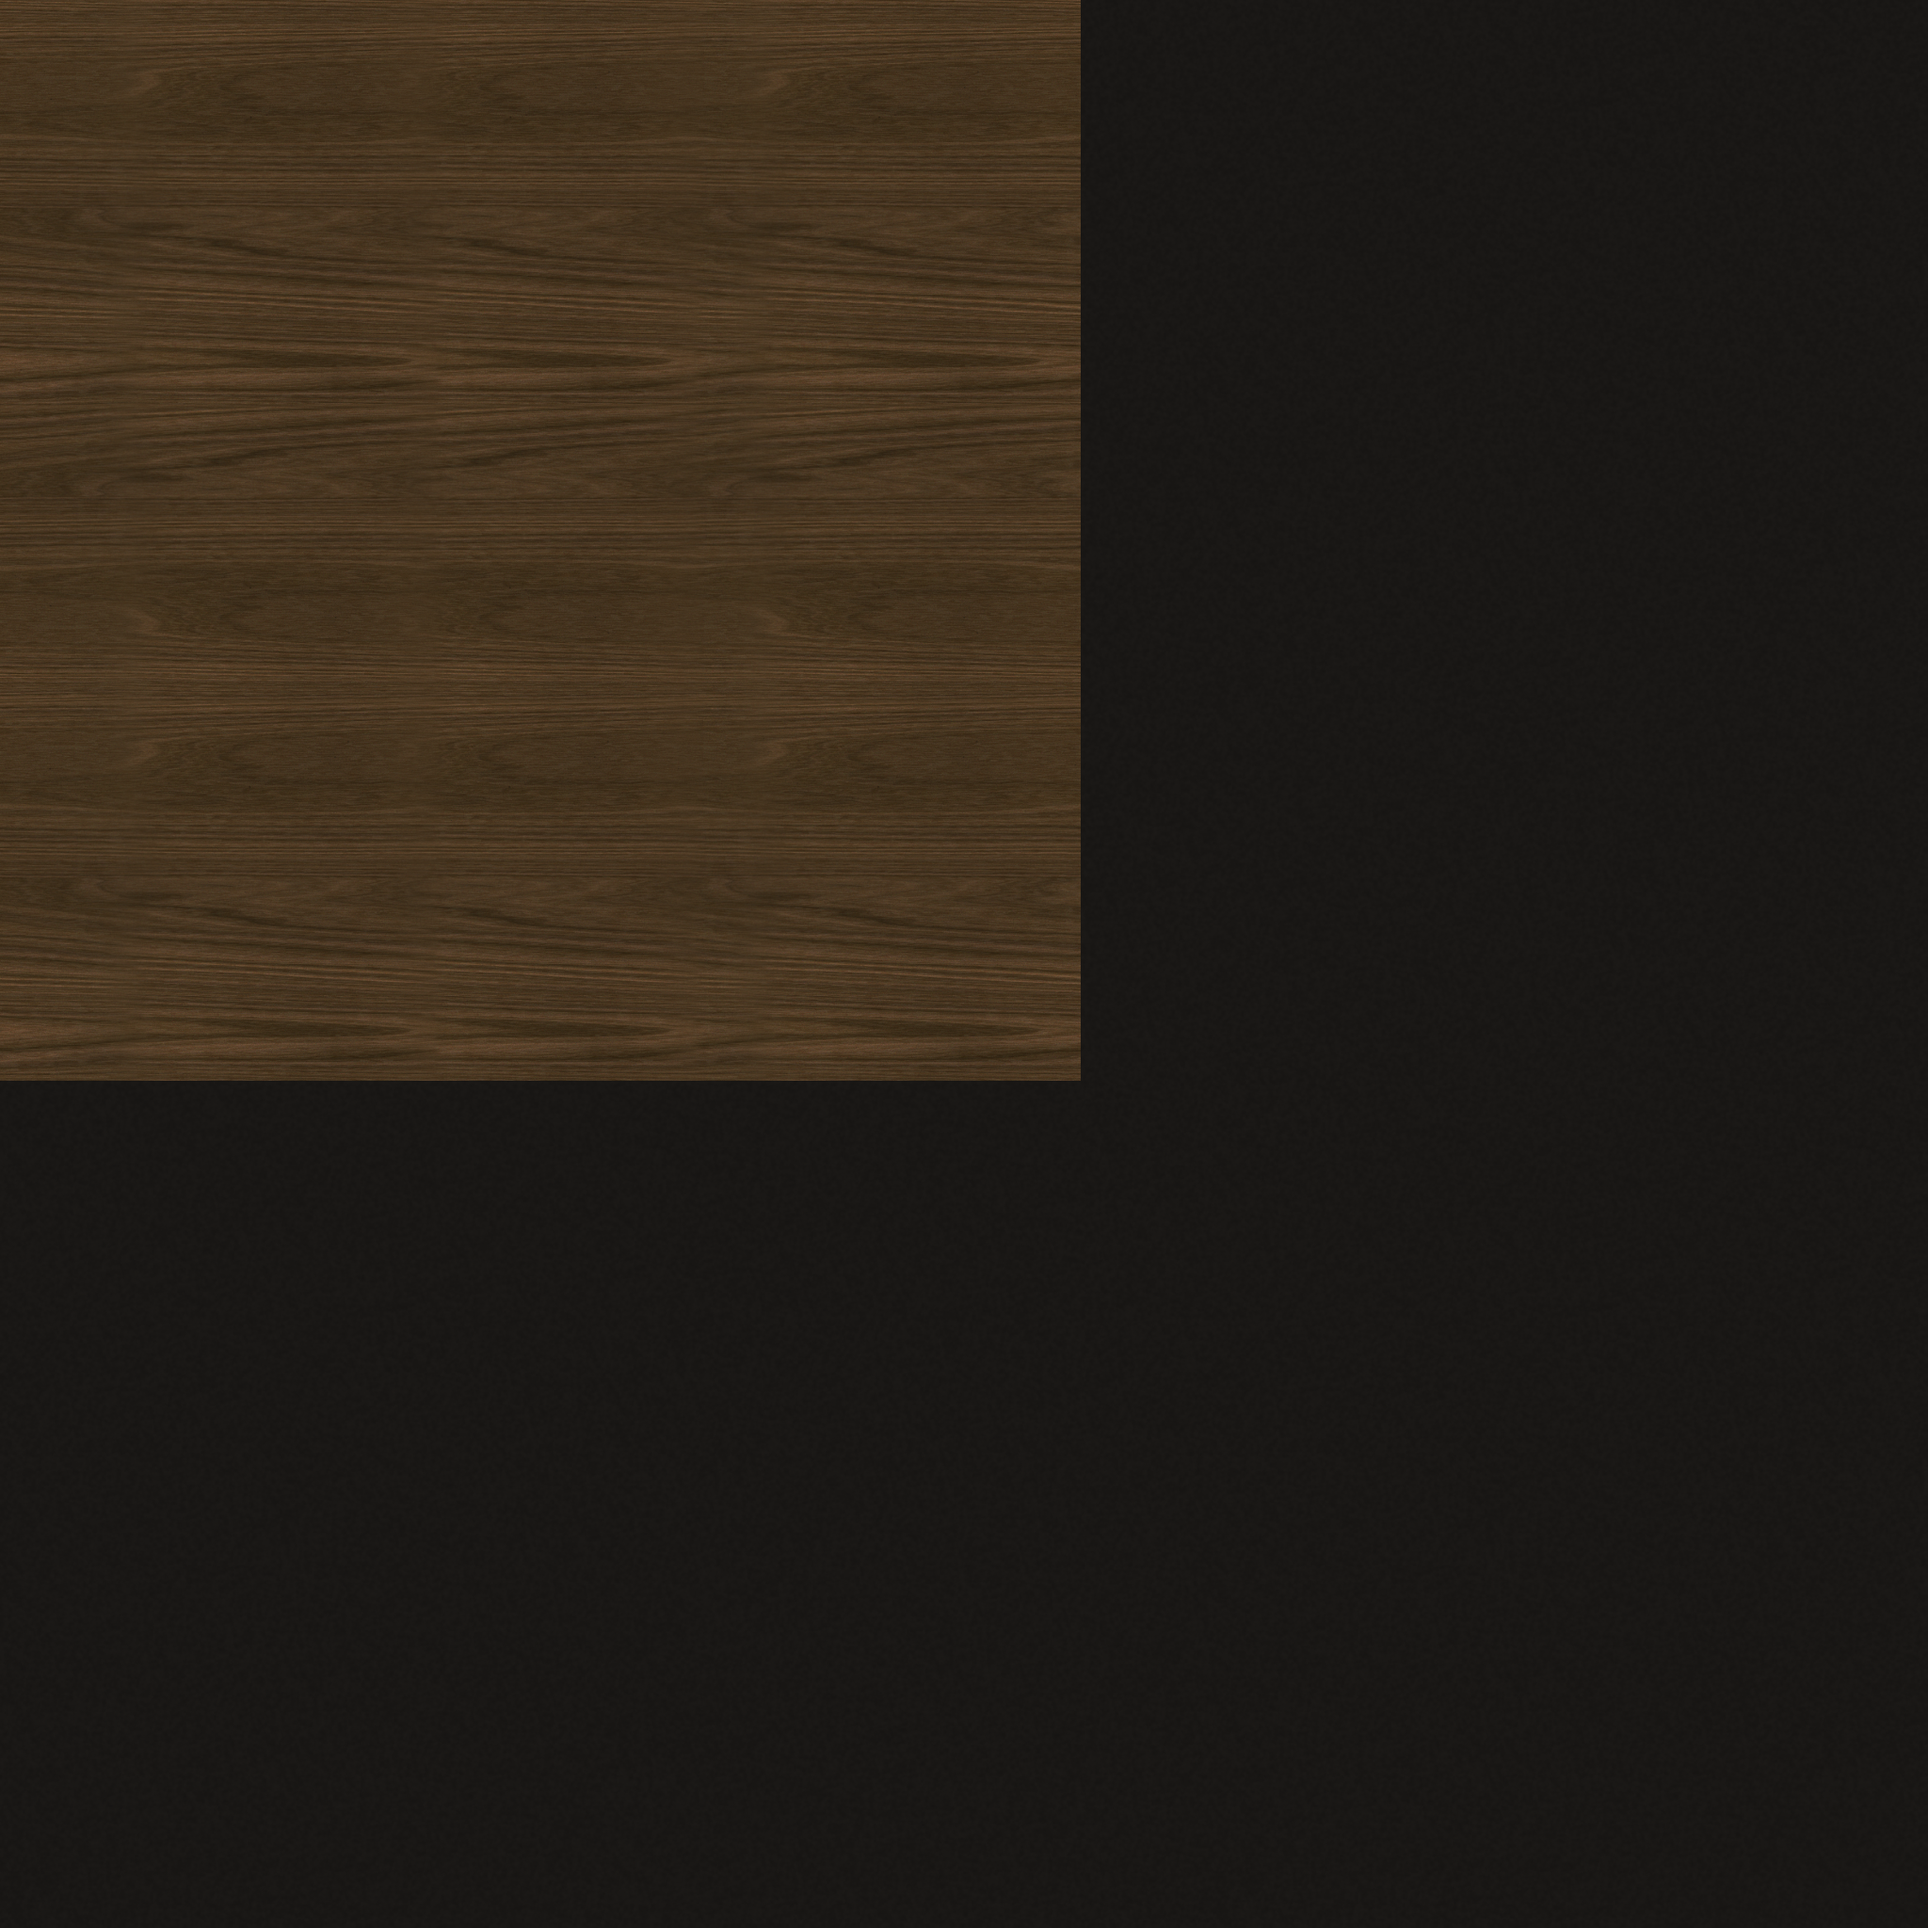
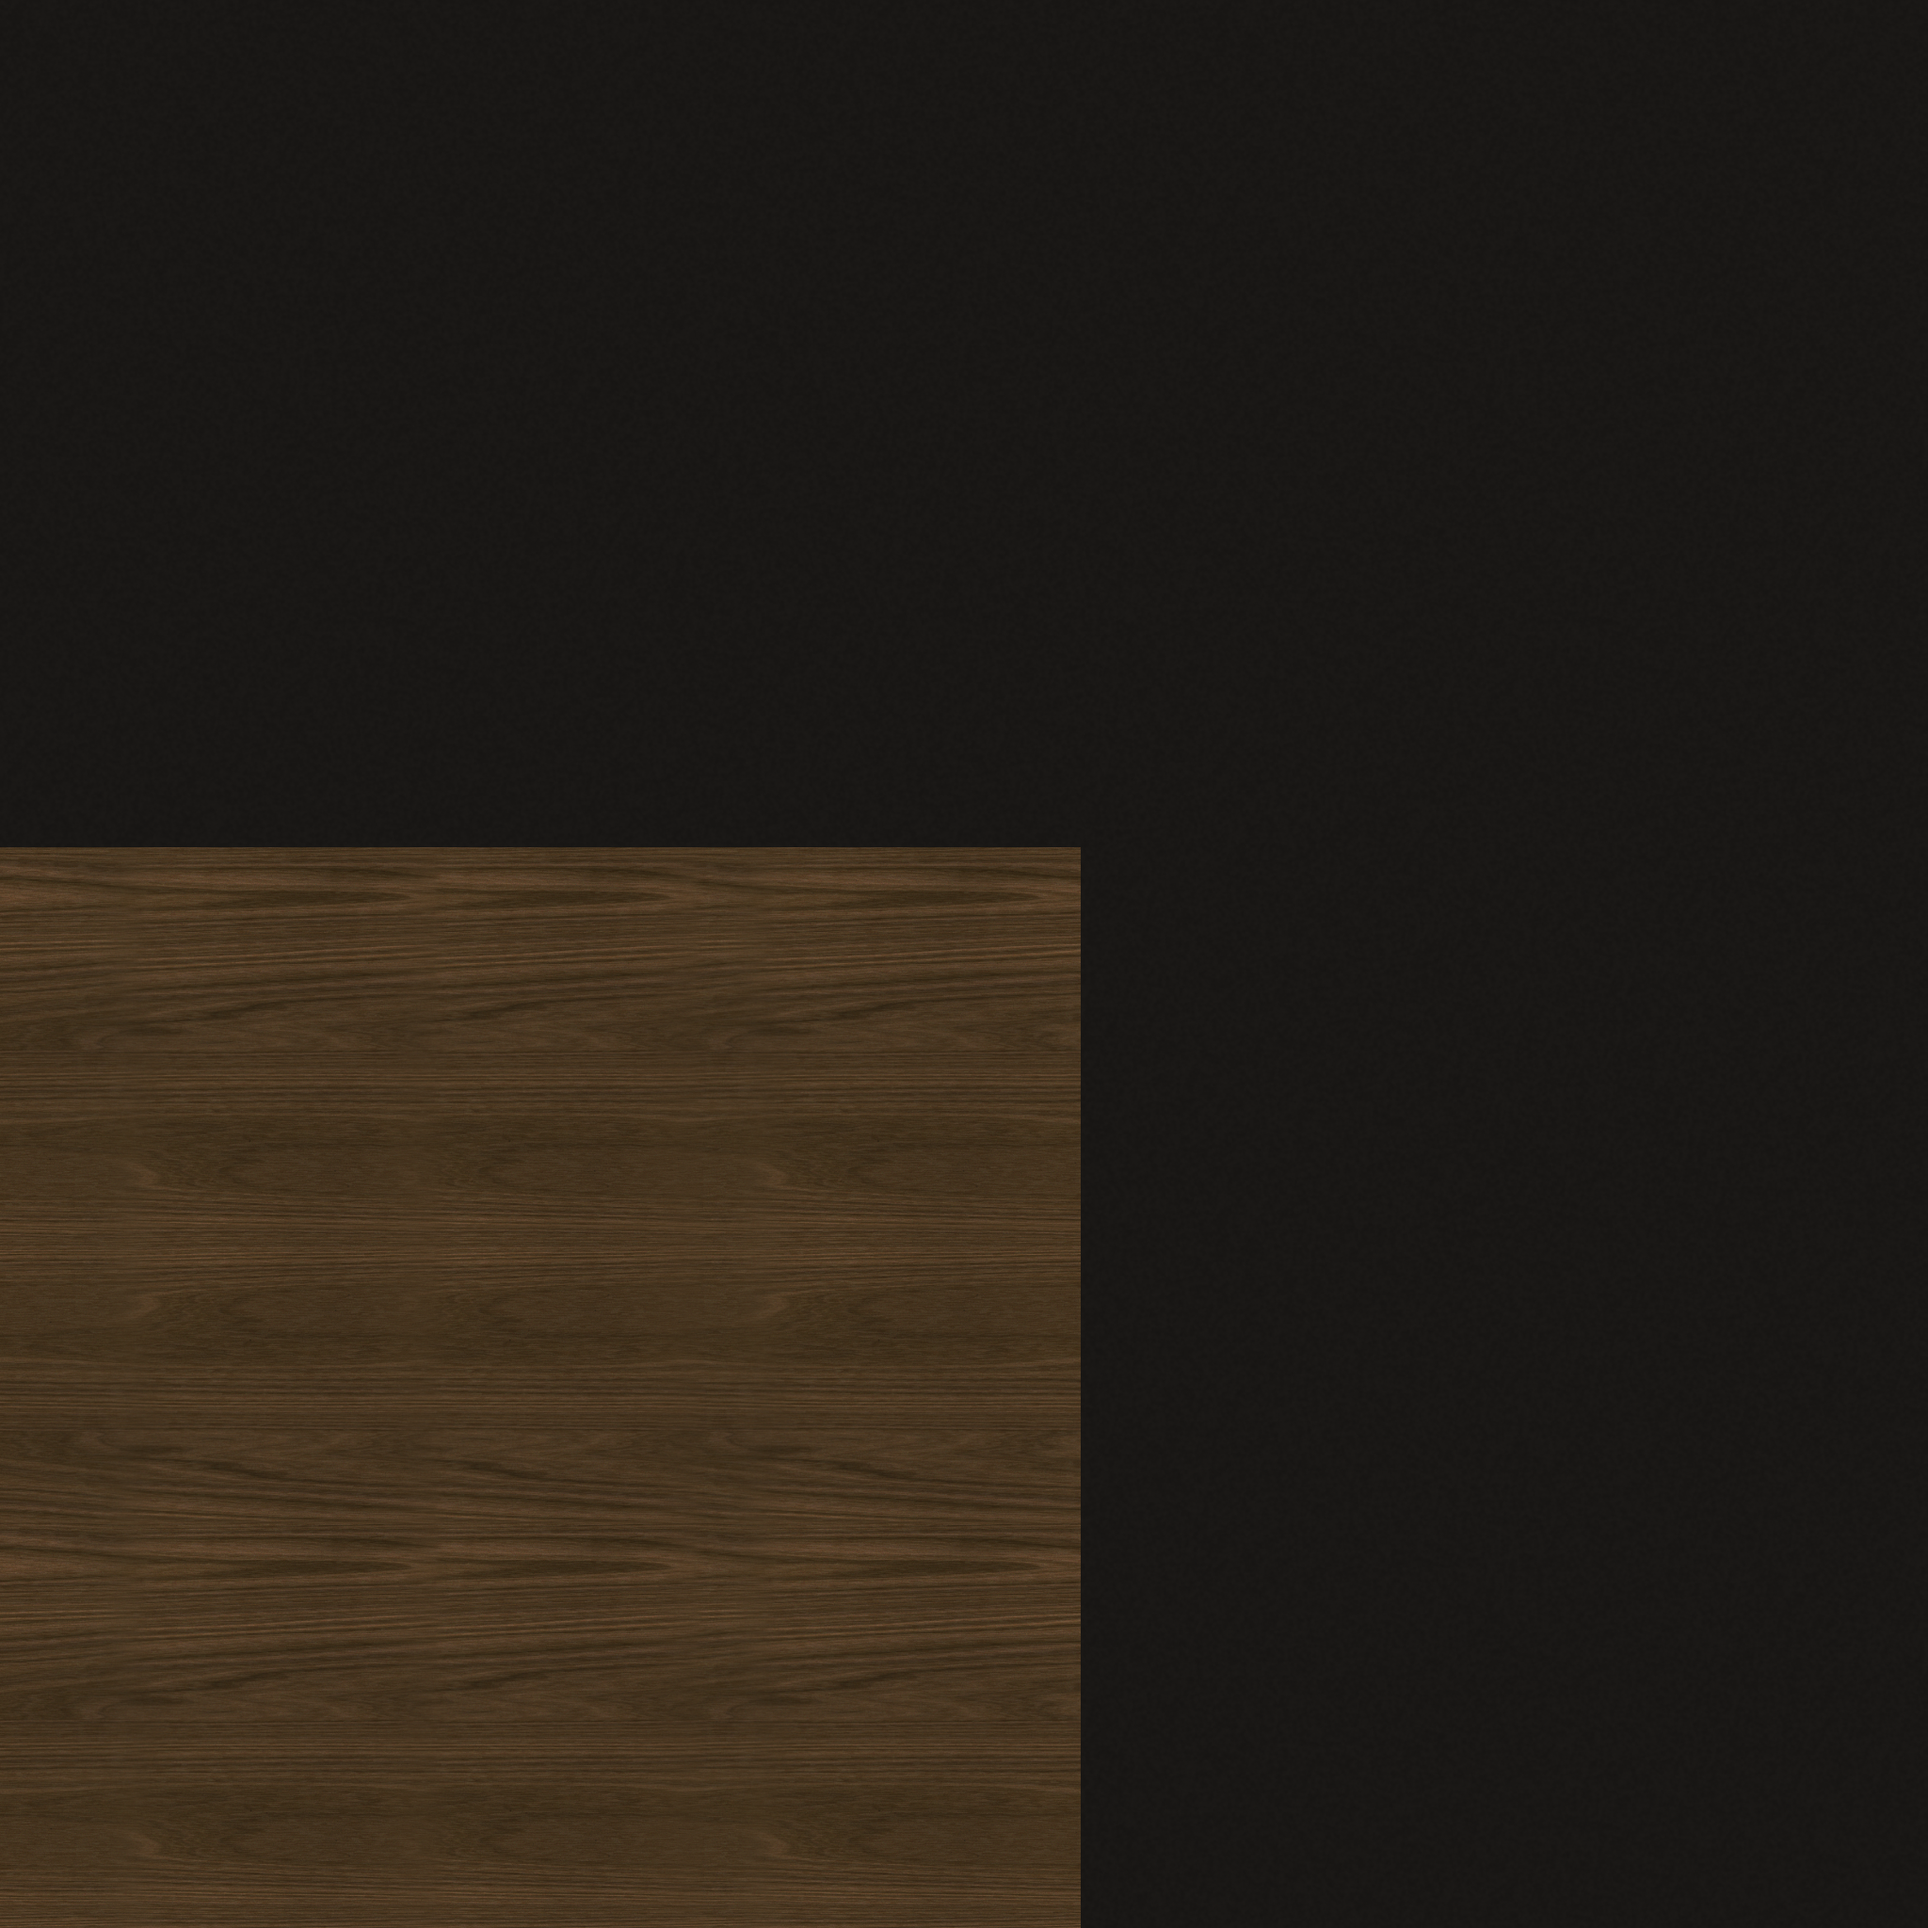
add texture to table

diff --git a/main_file.cpp b/main_file.cpp
@@ -186,26 +186,29 @@ glm::mat4 table(glm::mat4 initMatrix) {
 
     mat4 matrix = scale(initMatrix, vec3(C_TABLE_SCALE_FACTOR));
 
-    activateLambertShader();
-    glUniformMatrix4fv(spLambert->u("M"), 1, false, value_ptr(matrix));
+    activateLambertTexturedShader();
+    glUniformMatrix4fv(spLambertTextured->u("M"), 1, false, value_ptr(matrix));
 
     for (int i = tableModel.size() - 1; i >= 0; i--) {
         RGB color = tableModel[i].diffuse;
-        glUniform4f(spLambert->u("color"), color.r, color.g, color.b, tableModel[i].dissolve);
-        glEnableVertexAttribArray(spLambert->a("vertex"));
-        glVertexAttribPointer(spLambert->a("vertex"), 4, GL_FLOAT, false, 0, &(tableModel[i].vertices)[0]);
-        glEnableVertexAttribArray(spLambert->a("normal"));
-        glVertexAttribPointer(spLambert->a("normal"), 4, GL_FLOAT, false, 0, &(tableModel[i].normals)[0]);
-        // glEnableVertexAttribArray(spLambert->a("texCoord"));
-        // glVertexAttribPointer(spLambert->a("texCoord"), 2, GL_FLOAT, false, 0, &fish.texCoord[0]);
-
-        // glActiveTexture(GL_TEXTURE0);
-        // glBindTexture(GL_TEXTURE_2D, textureLoader.getTexture(fish.textureId));
-        // glUniform1i(spLambert->u("tex"), 0);
+        glUniform4f(spLambertTextured->u("color"), color.r, color.g, color.b, tableModel[i].dissolve);
+        glEnableVertexAttribArray(spLambertTextured->a("vertex"));
+        glVertexAttribPointer(spLambertTextured->a("vertex"), 4, GL_FLOAT, false, 0, &(tableModel[i].vertices)[0]);
+        glEnableVertexAttribArray(spLambertTextured->a("normal"));
+        glVertexAttribPointer(spLambertTextured->a("normal"), 4, GL_FLOAT, false, 0, &(tableModel[i].normals)[0]);
+        if (tableModel[i].textureAvailable) {
+            glEnableVertexAttribArray(spLambertTextured->a("texCoord"));
+            glVertexAttribPointer(spLambertTextured->a("texCoord"), 2, GL_FLOAT, false, 0, &(tableModel[i].texcoords)[0]);
+            glActiveTexture(GL_TEXTURE0);
+            glBindTexture(GL_TEXTURE_2D, tableModel[i].texture);
+            glUniform1i(spLambertTextured->u("tex"), 0);
+        }
         glDrawArrays(GL_TRIANGLES, 0, tableModel[i].vertices.size() / 4);
-        glDisableVertexAttribArray(spLambert->a("vertex"));
-        glDisableVertexAttribArray(spLambert->a("normal"));
-        // glDisableVertexAttribArray(spLambert->a("texCoord"));
+        glDisableVertexAttribArray(spLambertTextured->a("vertex"));
+        glDisableVertexAttribArray(spLambertTextured->a("normal"));
+        if (tableModel[i].textureAvailable) {
+            glDisableVertexAttribArray(spLambertTextured->a("texCoord"));
+        }
     }
 
     return translate(initMatrix, vec3(0.0f, C_TABLE_HEIGHT, 0.0f));
